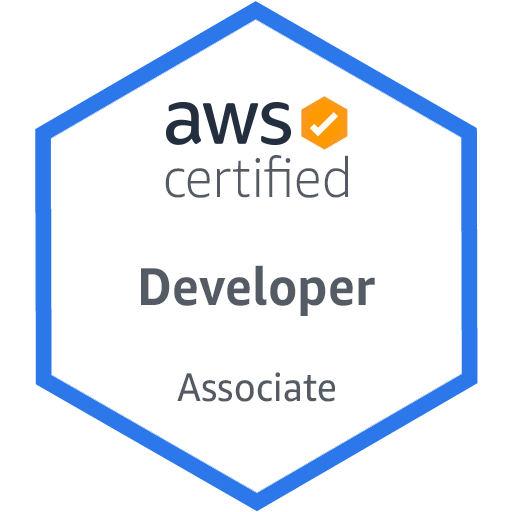
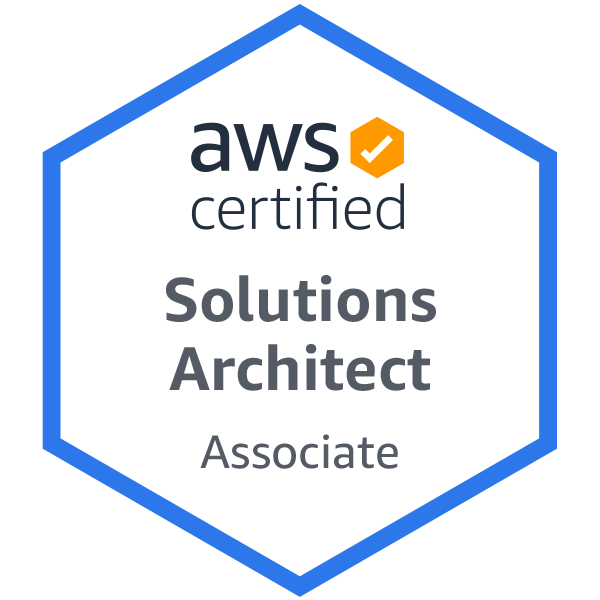
CL ** Update Skills

diff --git a/index.html b/index.html
@@ -95,7 +95,7 @@
           <img src="assets/img/myPicV1.jpg" class="img-fluid" alt="">
         </div>
         <div class="col-lg-8 pt-4 pt-lg-0 content" data-aos="fade-left">
-          <p>
+          <p align="justify">
             I am a highly qualified Software Engineer with a strong educational background in Computer Science Engineering and Software Engineering Systems. With over four years of experience, I've developed a diverse skill set and a passion for innovation. As a Graduate Teaching Assistant, I honed my leadership and communication skills while promoting Agile methodologies. My role as a Software Engineer at Blockalytics allowed me to design user interfaces, develop Python microservices, and improve product capabilities using AWS services. At Scientific Games, I migrated code, redesigned systems, and developed a Conversational AI Chatbot application. I excel in Agile development and have a deep understanding of software practices. My experience with AWS adds to my ability to deliver scalable solutions. I look forward to discussing how my skills align with your company goals in an interview.
           </p>
           <div class="row">
@@ -150,7 +150,7 @@
         <div class="col-lg-3 col-md-4 mt-4 mt-lg-0">
           <div class="icon-box">
             <i class="ri-english-input" style="color: #1c7d32;"></i>
-            <h3>Tech-savvy</h3>
+            <h3>UI/UX</h3>
           </div>
         </div>
         <div class="col-lg-3 col-md-4 mt-4">
@@ -200,13 +200,13 @@
               <h5 style="text-align:left;padding: 0px 10px;">September 2021 - December 2023</h5>
               <h6 style="text-align:left;color:#fff;padding: 0px 10px;">Relevant Coursework</h6>
               <ul style="text-align:left;color:#fff;">
-                <li>Data Structures & Algorithms</li>
+                <li>Program Structures & Algorithms</li>
                 <li>Network Structure & Cloud Computing</li>
                 <li>Web Design Engineering</li>
-                <li>Software Engineering</li>
+                <li>Concepts of OOPS</li>
                 <li>Agile Software Development</li>
                 <li>Design Patterns</li>
-                <li>Engineering Scalable, Reliable Softwares</li>
+                <li>User Interface & User Experience</li>
               </ul>
             </div>
             <div class="col-md-4 mt-4 mt-md-0 icon-box" data-aos="fade-up" data-aos-delay="100" style="padding:0px 0px;padding-bottom: 5px;display: inline-block;">
@@ -359,7 +359,7 @@
           <div class="portfolio-wrap">
             <img src="assets/img/certification/aws.png" class="img-fluid" alt="">
             <div class="portfolio-info">
-              <h4>AWS Associate Developer</h4>
+              <h4>AWS Solution Architect</h4>
               <!-- <div class="portfolio-links">
                 <a href="https://www.udemy.com/certificate/UC-SG50XR4Q/" target="_blank" title="Certificate"><i class="bx bx-link"></i></a>
               </div> -->
@@ -389,7 +389,7 @@
               <h2 style="text-align:left;"><a style="color:#12a8d6">Blockalytics LLC</a><br> </h2>
               <h4 style="text-align:left;"><a style="color:#12d640">Blockalytics</a><br> </h4>
               <h5 style="text-align:left;">July 2022 - January 2023</h5>
-              <p style="text-align:left;color:#fff"><em>Software Engineer - Full Stack Development Co-op, Boston</em></p>
+              <p style="text-align:left;color:#fff"><em>Software Engineer - Full Stack Development Co-op, Atlanta</em></p>
               <ul style="text-align:left;">
                 <li>Designed a new user interface with HTML, CSS, JavaScript and ReactJS and attracted new clients, boosting revenue by 37%</li>
                 <li>Programmed python microservices architecture with flask Rest API and adding support for client UI functionalities meeting web browser standard and orchestrated it with docker containers</li>
@@ -660,7 +660,7 @@
   <script src="assets/vendor/typed.js/typed.min.js"></script>
   <script type="text/javascript">
     var typed = new Typed('.typing',{
-      strings: [ "Full Stack development", "Backend development","Frontend development","Conversational AI Chatbot"],
+      strings: [ "Full Stack development", "Backend development","Frontend development","UI/UX","Conversational AI Chatbot"],
       loop: true,
       typeSpeed: 65,
       backSpeed: 65
